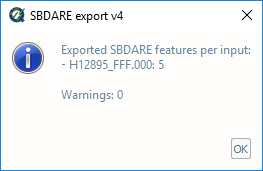
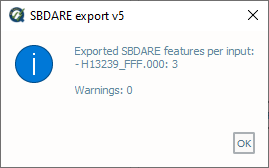
updated docs for SBDARE Export

Changed region(s): [[0.0, 0.0, 1.0, 1.0], [0.2129, 0.506, 0.5171, 0.5952]]

diff --git a/docs/conf.py b/docs/conf.py
@@ -51,7 +51,7 @@ copyright = u'2021, CCOM/JHC,UNH'
 # The short X.Y version.
 version = '3.4'
 # The full version, including alpha/beta/rc tags.
-release = '3.4.0'
+release = '3.4.2'
 
 numfig = True
 

diff --git a/docs/user_manual_survey_sbdare_export.rst b/docs/user_manual_survey_sbdare_export.rst
@@ -16,15 +16,9 @@ How to Use?
 
 * Select the **SBDARE export** tab on the bottom of the QC Tools interface.
 
-* In **Parameters**:
+* Click **SBDARE export v5** (:numref:`sbdare_export_interface`).
 
-  * Turn the knob to select applicable HTD.
-
-  * If HTD 2018-4 is selected, you may set the images folder path by checking set **Select the path to the images folder** option. If unset, the default search is in the input feature file folder.
-
-  * Flag **Set the EXIF GPS in JPEG image to S57 position** to include or overwrite the location of the bottom sample in the image metadata based on the S-57 feature file.
-
-* Click **SBDARE export v4** (:numref:`sbdare_export_interface`).
+* A window will appear requesting the user to identify the path to the images. If your bottom samples do not contain images you may select "Cancel".
 
 .. _sbdare_export_interface:
 .. figure:: _static/sbdare_export_interface.png
@@ -55,19 +49,15 @@ How to Use?
 How Does It Work?
 ^^^^^^^^^^^^^^^^^
 
-For both settings, SBDARE export selects only SBDARE point features in the feature file and exports them into the appropriate outputs per their respective HTD. 
+SBDARE export selects only SBDARE point features in the feature file and exports them into the appropriate outputs per the Bottom Samples and CMECS Translation for submittal to NCEI SOP. 
 
-When the toggle is set to the **HTD 2013-3**, SBDARE features are exported into a semicolon delimited ASCII with the following information: Latitude, Longitude, Observed time, Colour, Nature of surface - qualifying terms, Nature of surface; Remarks, Source date, and Source indication. 
-
-When the toggle is set to the **HTD 2018-4**, SBDARE features are exported into two different files: a semicolon delimited ASCII and a shape file.
-
-Both the semicolon delimited ASCII file and the shape file contain the following information: Latitude, Longitude, Observed time, Colour, Nature of surface - qualifying terms, Nature of surface, Remarks, Source date, Source indication, Images, CMECS Co-occurring Element 1 Name, and CMECS Co-occurring Element 1 Code, CMECS Co-occurring Element 2 Name, and CMECS Co-occurring Element 2 Code.
+Both the semicolon delimited ASCII file and the shape file contain the following information: Latitude, Longitude, Colour, Nature of surface - qualifying terms, Nature of surface, Remarks, Source date, Source indication, Images, CMECS Co-occurring Element 1 Name, and CMECS Co-occurring Element 1 Code, CMECS Co-occurring Element 2 Name, and CMECS Co-occurring Element 2 Code.
 
 **Colour**, **Nature of surface - qualifying terms** (NATSUR), and **Nature of surface** (NATQUA) are all limited to three or fewer terms. If the feature file contains more than three terms per attribute, the first three are selected. Additionally, only a maximum of four **images** are allowed per feature. If there are more than four images for a feature, the first four are selected for export. 
 
-If **"Set EXIF GPS in JPEG images to S57 position"** is selected, all associated images will have the GPS metadata in the JPEG file match the location of the bottom sample in the feature file. This allows future users to utilize these images in GIS software as they are geotagged. 
+All associated images will have the GPS metadata in the JPEG file match the location of the bottom sample in the feature file. This allows future users to utilize these images in GIS software as they are geotagged. 
 
-SBDARE export translates the **NATSUR** and **NATQUA** to the appropriate Coastal and Marine Ecological Classification Standard June 2012 (**CMECS**) standard. A crosswalk table used for this classification can be found in Appendix E of HTD 2018-4 Bottom Sample Drop Camera Imagery. 
+SBDARE export translates the **NATSUR** and **NATQUA** to the appropriate Coastal and Marine Ecological Classification Standard June 2012 (**CMECS**) standard. A crosswalk table used for this classification can be found in the Bottom Samples and CMECS Translation for submittal to NCEI SOP. 
 
 A zip file is created containing the shape file and "Images" folder with the images. If no images are available, a text file is created indication that the image folder is intentionally left empty.
 
@@ -84,14 +74,14 @@ Upon completion of the execution of **SBDARE Export** you will receive a pop-up 
 The number of warnings associated with the output are also provided (:numref:`fig_sbdare_pop_up_results`).
 
 .. _fig_sbdare_pop_up_results:
-.. figure:: _static/sbdare_pop_up_results.png
+.. figure:: _static/sbdare_export_results.png
     :width: 300px
     :align: center
     :figclass: align-center
 
-    The output message at the end of **SBDARE export v4** execution.
+    The output message at the end of **SBDARE export v5** execution.
 
-Depending on the selection and the data provided, **SBDARE export v4** produces an ASCII file or a zip file, containing a shapefile with bottom sample locations and an images folder with georeferenced images (:numref:`fig_sbdare_export_shapefile`), for NCEI archival.
+**SBDARE export v5** produces an ASCII file or a zip file, containing a shapefile with bottom sample locations and an images folder with georeferenced images (:numref:`fig_sbdare_export_shapefile`), for NCEI archival.
 Attributes includes NOAA S-57 attribution and CMECS translations.
 
 .. _fig_sbdare_export_shapefile:
